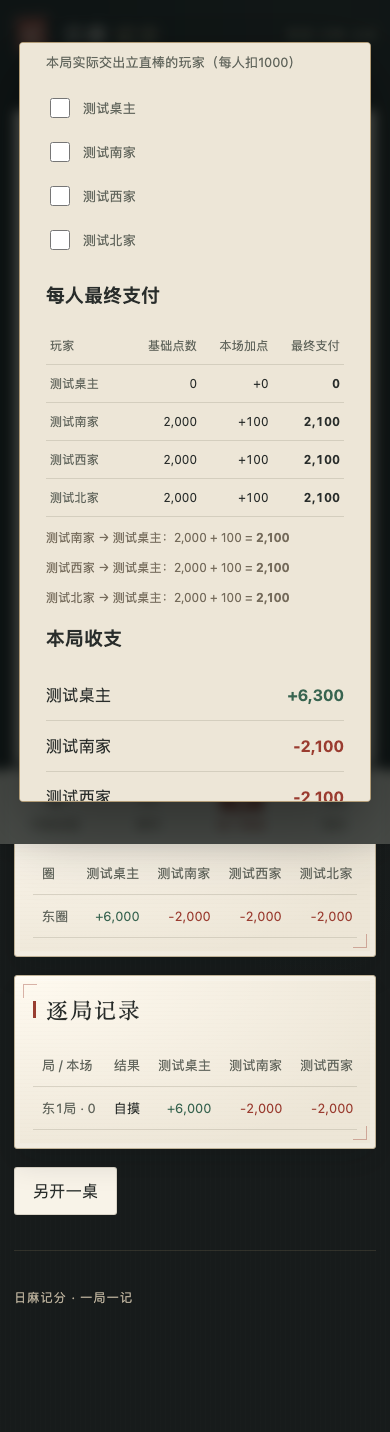
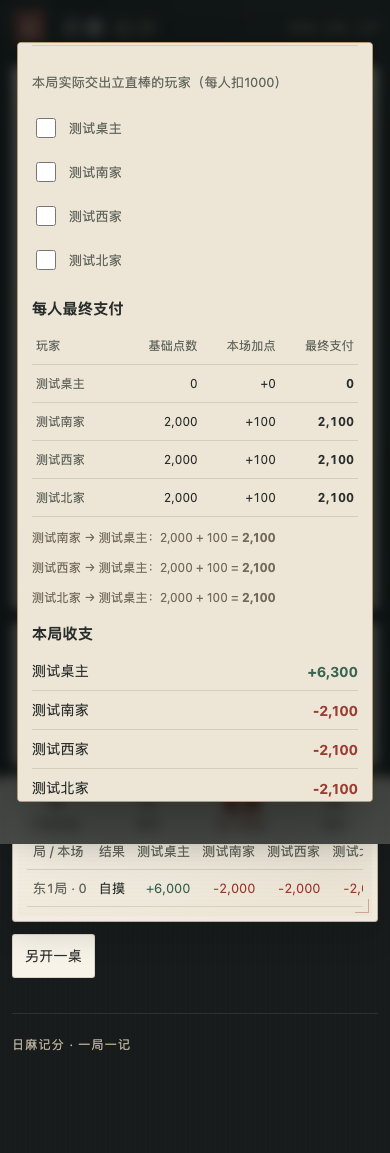
Record compact layout deployment and refresh mobile previews

diff --git a/docs/acceptance.md b/docs/acceptance.md
@@ -76,3 +76,9 @@
 ## 中文术语修正验收
 
 源4942b14已上线；84项Node24/Linux测试和8组完整浏览器流程通过，公网Chromium/WebKit实查“听牌形”和“边张／嵌张／单骑听牌”显示及加符回填正确。小程序算符页面与同源明细同时修正，WXML标签结构通过静态检查；真实微信平台仍未验收。
+
+## 2026-10-12 全页面手机紧凑布局
+
+源ba804fe已部署。84项本地测试、84项Node24/Linux受限容器测试通过；8组Chromium/WebKit桌面／手机及根路径／riichi前缀完整流程通过。新增算符首次进入及滚动到刻杠选项后，结果栏与查点按钮仍位于可见区域、未被导航遮挡的断言；两端触控高度保留。速查、牌桌、记分弹窗与个人统计真实合成数据截图已更新。公网HTTPS两种浏览器在390×844与360×740核对固定结果栏、动态算符、查点回填、无横向溢出；原有速查、庄闲支付、桌型本场、匿名权限通过。原有业务表升级前后哈希相同，情侣空间容器未改变。
+
+原生小程序相同密度与固定结果栏源码同步，全页WXML标签结构静态检查通过；没有AppID与备案域名，未做微信开发者工具编译、安卓真机或体验版发布。网页视口测试不代替实际微信平台验收。

diff --git a/docs/deployment.md b/docs/deployment.md
@@ -61,3 +61,7 @@ AppID与备案域名未提供，因此服务端微信配置为空，未发布微
 ## 算符中文术语修正上线
 
 2026-10-11源4942b14，镜像 `sha256:ef78bcda3e650e8e134f0062083229ff64451e33f60f139e340a30de097e539c` 已发布。84项Linux受限容器测试、8组完整浏览器流程通过；公网两种浏览器手机验证“听牌形”、加符明细“单骑听牌”及回填。原业务表哈希一致，情侣空间容器及运行限制未改变。小程序源码同步，实际微信编译和发布未执行。
+
+## 2026-10-12 全页紧凑布局上线
+
+源`ba804fe72e074d8beae436ba56ff1ba1dd01cc7f`，镜像`sha256:00d704b9bca1d335239212c3f7a28c43f5713fe5ecf2a21fe55098f0e70da2c8`，独立current指向`/srv/riichi-score/releases/ba804fe`。84项Linux容器测试与8组本地浏览器流程通过；公网Chromium/WebKit在360px、390px手机视口检查固定算符结果、无溢出及原有查点流程。原三张业务表内容哈希一致，独立持久化卷、0.25CPU/128MiB限制、情侣空间容器与禁备份策略不变。小程序源码已改；正式微信配置和平台验收继续待提供。
